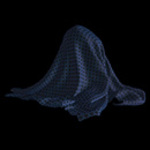
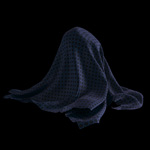
Update sheen cloth asset with mesh AO
Created AO texture from mesh and replaced AO from technical fabric with mesh version. Replaced renders with new renders using the new AO texture. Updated readme to reflect additional texture and usage.

diff --git a/Models/SheenCloth/README.md b/Models/SheenCloth/README.md
@@ -24,7 +24,9 @@ To account for this, the material uses tiled textures to reduce the overall size
 
 The texture for the technical fabric was created in Substance Designer with a base color texture, packed ORM texture, normal texture, and sheen texture with sheen color in the RGB channels and sheen roughness in alpha. The image below shows the channels of the sheen texture with the left half of the image displaying the sheen color in the RGB channels and the right displaying the sheen roughness in the alpha channel.
 
- ![screenshot](screenshot/sheenTextureSample.jpg)
+Additionally an occlusion texture was baked from the mesh as an atlased texture which should not tile. The size of the occlusion texture is 1024 x 1024 to prevent pixelation artifacts in the texture and saved as a .jpg file to reduce the overall file size in download.
+
+![screenshot](screenshot/sheenTextureSample.jpg)
 
 ### License Information
 
